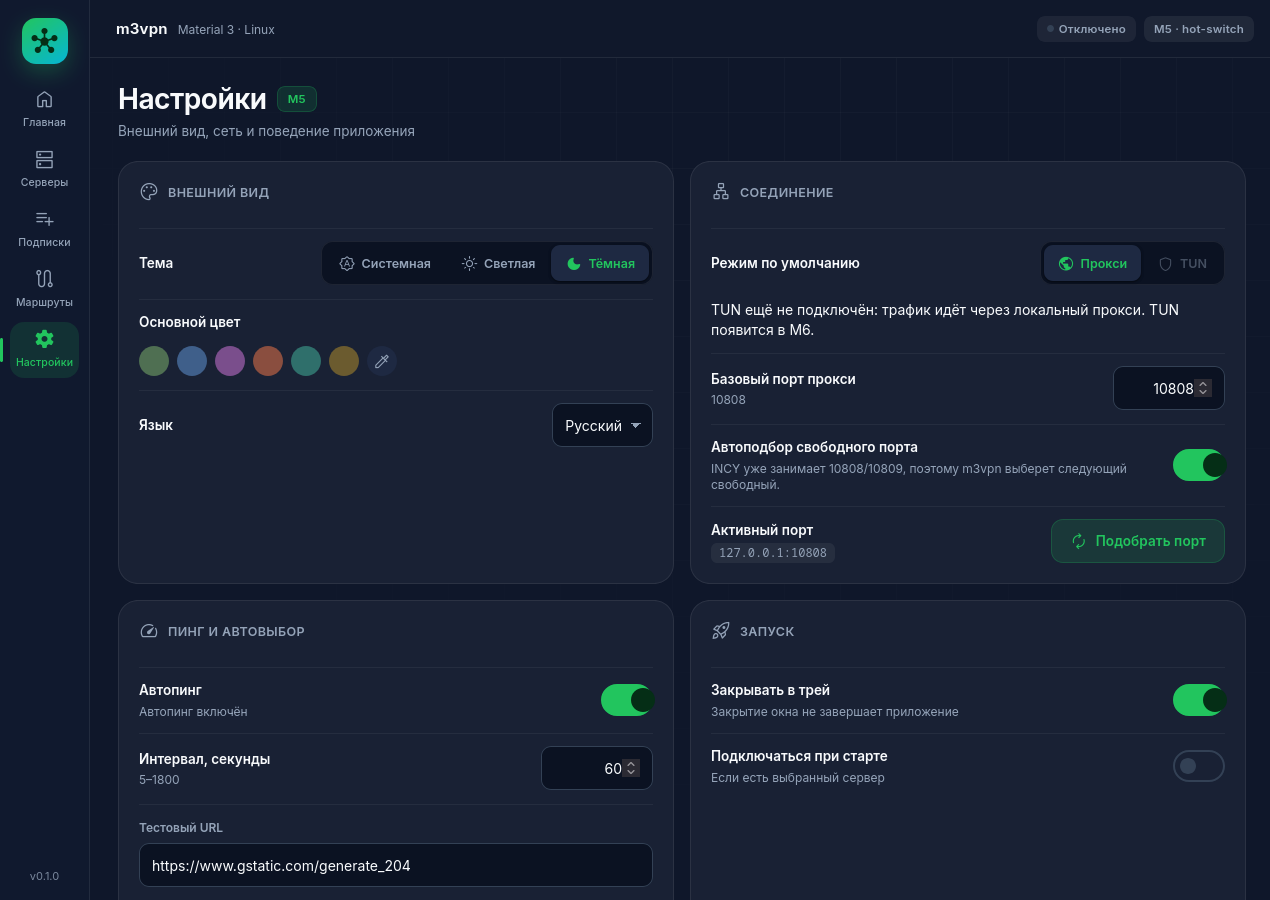
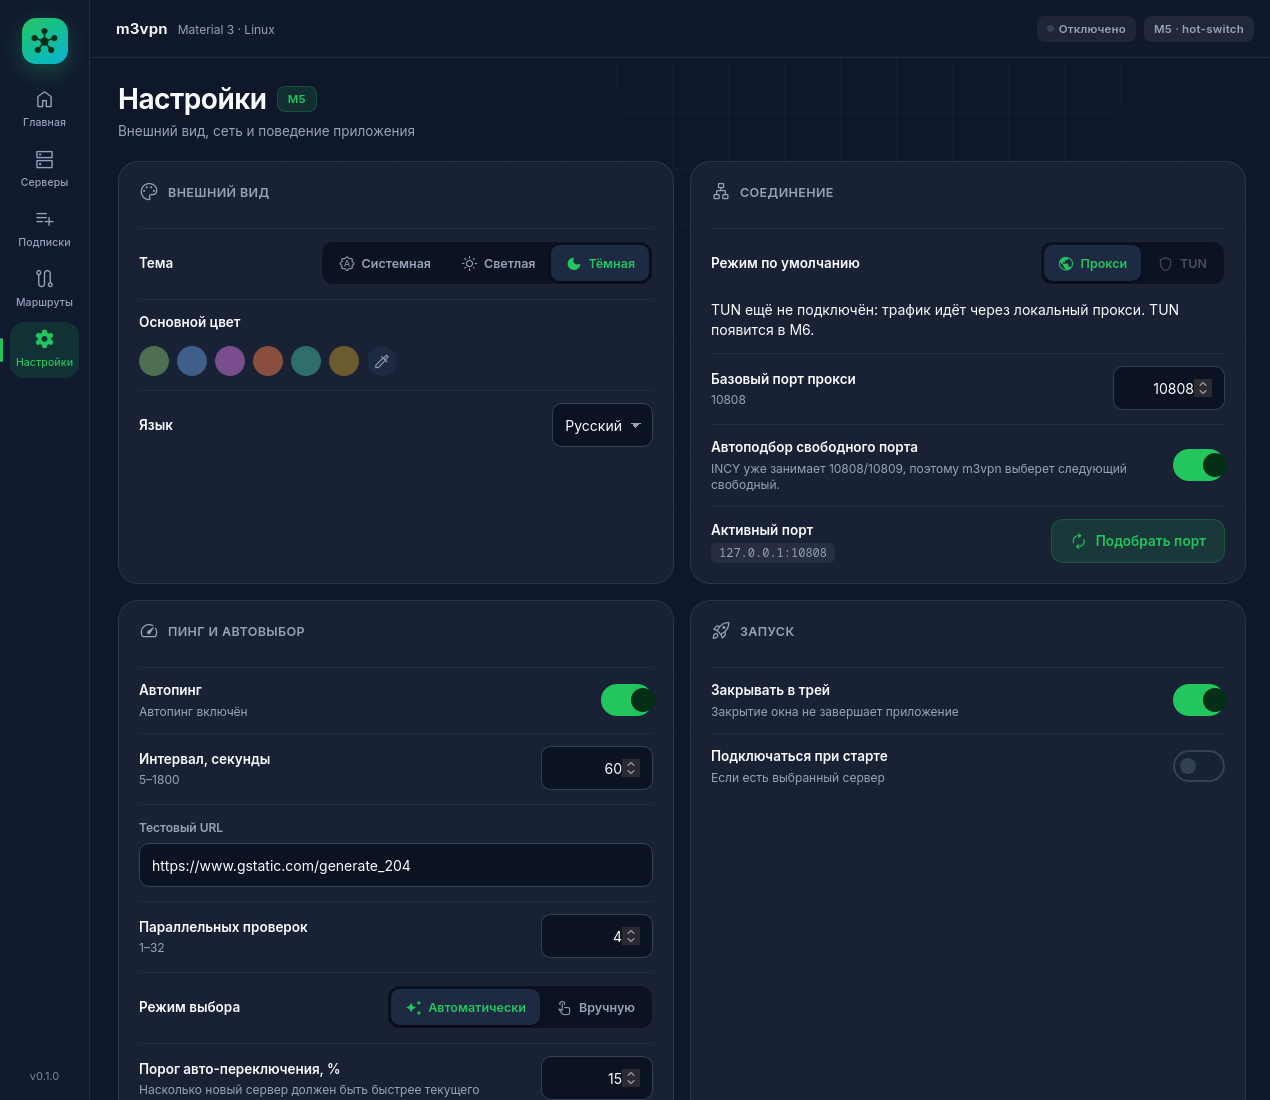
M5: auto-switch to fastest while connected, tune defaults, fail-open test

diff --git a/apps/desktop/src/store/useAppStore.ts b/apps/desktop/src/store/useAppStore.ts
@@ -28,6 +28,8 @@ interface AppStore {
   importing: boolean;
   probing: boolean;
   refreshingId: string | null;
+  autoCandidateId: string | null;
+  autoCandidateWins: number;
   toast: string | null;
   lastError: string | null;
   reportedStatusError: string | null;
@@ -65,6 +67,8 @@ export const useAppStore = create<AppStore>((set, get) => ({
   importing: false,
   probing: false,
   refreshingId: null,
+  autoCandidateId: null,
+  autoCandidateWins: 0,
   toast: null,
   lastError: null,
   reportedStatusError: null,
@@ -127,7 +131,10 @@ export const useAppStore = create<AppStore>((set, get) => ({
   },
 
   set: async (key, value) => {
-    set((state) => ({ settings: { ...state.settings, [key]: value } }));
+    set((state) => ({
+      settings: { ...state.settings, [key]: value },
+      ...(key === "select.mode" ? { autoCandidateId: null, autoCandidateWins: 0 } : {}),
+    }));
     try {
       await api.setSetting(key, value);
     } catch (error) {
@@ -136,7 +143,12 @@ export const useAppStore = create<AppStore>((set, get) => ({
     }
   },
 
-  selectServer: (serverId) => set({ selectedServerId: serverId }),
+  selectServer: (serverId) =>
+    set({
+      selectedServerId: serverId,
+      autoCandidateId: null,
+      autoCandidateWins: 0,
+    }),
 
   connect: async (serverId) => {
     const state = get();
@@ -154,8 +166,15 @@ export const useAppStore = create<AppStore>((set, get) => ({
         selectedServerId: target,
         reportedStatusError: null,
         rtt: null,
+        autoCandidateId: null,
+        autoCandidateWins: 0,
       });
       state.notify(`${translate(state.settings["ui.language"] as Lang, "home.on")}: ${status.serverName ?? ""}`);
+      // Give the tunnel a moment, then let auto mode check whether a clearly
+      // faster server is available instead of waiting a whole ping interval.
+      window.setTimeout(() => {
+        void get().probeAll(false, true);
+      }, 5000);
     } catch (error) {
       set({ busy: false, lastError: String(error) });
       void get().refreshData();
@@ -166,7 +185,14 @@ export const useAppStore = create<AppStore>((set, get) => ({
     set({ busy: true });
     try {
       const status = await api.disconnectCore();
-      set({ status, busy: false, reportedStatusError: null, rtt: null });
+      set({
+        status,
+        busy: false,
+        reportedStatusError: null,
+        rtt: null,
+        autoCandidateId: null,
+        autoCandidateWins: 0,
+      });
     } catch (error) {
       set({ busy: false, lastError: String(error) });
     }
@@ -258,20 +284,65 @@ export const useAppStore = create<AppStore>((set, get) => ({
       const best = results
         .filter((result) => result.ok && result.latencyMs !== null)
         .sort((left, right) => (left.latencyMs ?? 0) - (right.latencyMs ?? 0))[0];
-      const autoSelect = get().settings["select.mode"] !== "manual";
-      const current = get().servers.find((server) => server.id === get().selectedServerId);
+      const state = get();
+      const lang = state.settings["ui.language"] as Lang;
+      const autoMode = state.settings["select.mode"] !== "manual";
+      const winsRequired = Math.max(
+        1,
+        Number(state.settings["select.wins_required"] ?? "2") || 2,
+      );
+      const toleranceMs = Math.max(0, Number(state.settings["select.tolerance_ms"] ?? "50") || 0);
+      const toleranceRatio = Math.min(
+        1,
+        Math.max(0, Number(state.settings["select.tolerance_ratio"] ?? "0.3") || 0),
+      );
+      const current = state.servers.find(
+        (server) =>
+          server.id ===
+          (state.status.running ? state.status.serverId : state.selectedServerId),
+      );
       const currentLatency = current?.latencyMs ?? Number.POSITIVE_INFINITY;
       const bestLatency = best?.latencyMs ?? Number.POSITIVE_INFINITY;
-      const clearlyBetter = !current || bestLatency < currentLatency * 0.85;
-      if (best && (connectFastest || (autoSelect && !get().status.running && clearlyBetter))) {
-        get().selectServer(best.serverId);
-        if (connectFastest) await get().connect(best.serverId);
+      const clearlyBetter =
+        !current ||
+        bestLatency + toleranceMs < currentLatency ||
+        bestLatency < currentLatency * (1 - toleranceRatio);
+
+      if (connectFastest) {
+        if (!best) {
+          get().notify(translate(lang, "servers.noCandidates"));
+        } else if (state.status.running && state.status.serverId === best.serverId) {
+          get().selectServer(best.serverId);
+          get().notify(translate(lang, "servers.alreadyFastest"));
+        } else {
+          get().selectServer(best.serverId);
+          await get().connect(best.serverId);
+        }
+      } else if (autoMode && best) {
+        if (!state.status.running) {
+          get().selectServer(best.serverId);
+        } else if (best.serverId !== current?.id && clearlyBetter) {
+          const wins = state.autoCandidateId === best.serverId ? state.autoCandidateWins + 1 : 1;
+          if (wins >= winsRequired) {
+            set({ autoCandidateId: null, autoCandidateWins: 0 });
+            await get().connect(best.serverId);
+            const bestServer = state.servers.find((server) => server.id === best.serverId);
+            get().notify(
+              `${translate(lang, "servers.autoSwitched")}: ${bestServer?.name ?? best.serverId}`,
+            );
+          } else {
+            set({ autoCandidateId: best.serverId, autoCandidateWins: wins });
+          }
+        } else {
+          set({ autoCandidateId: null, autoCandidateWins: 0 });
+        }
+      } else {
+        set({ autoCandidateId: null, autoCandidateWins: 0 });
       }
+
       if (!silent) {
         const ok = results.filter((result) => result.ok).length;
-        get().notify(
-          `${translate(get().settings["ui.language"] as Lang, "servers.probe")}: ${ok}/${results.length}`,
-        );
+        get().notify(`${translate(lang, "servers.probe")}: ${ok}/${results.length}`);
       }
     } catch (error) {
       set({ lastError: String(error) });

diff --git a/apps/desktop/src/i18n.ts b/apps/desktop/src/i18n.ts
@@ -158,6 +158,9 @@ const ru: Dictionary = {
   "settings.xrayVersion": "Версия Xray",
   "settings.assetsDir": "Geo-ассеты",
   "servers.probe": "Проверить пинг",
+  "servers.autoSwitched": "Авто: переключено",
+  "servers.noCandidates": "Нет доступных серверов",
+  "servers.alreadyFastest": "Уже подключено к самому быстрому",
   "servers.probing": "Проверяю…",
   "servers.fastest": "В самый быстрый",
   "servers.sortGroup": "Группы",
@@ -165,7 +168,11 @@ const ru: Dictionary = {
   "servers.sortName": "По имени",
   "servers.tcpPing": "TCP-пинг по адресам серверов",
   "settings.pingHint": "TCP-пинг измеряет задержку до адреса сервера. Реальная задержка туннеля видна после подключения.",
-  "settings.selectHint": "Авто выбирает лучший сервер после проверки пинга. Ручной режим оставляет ваш выбор.",
+  "settings.selectHint": "Авто выбирает лучший сервер после проверки пинга и переключается на него через hot-switch. Ручной режим оставляет ваш выбор.",
+  "settings.autoTolerance": "Порог авто-переключения, %",
+  "settings.autoToleranceHint": "Насколько новый сервер должен быть быстрее текущего",
+  "settings.autoWins": "Замеров подряд",
+  "settings.autoWinsHint": "Сколько проверок новый сервер должен быть лучше",
   "subs.refresh": "Обновить подписку",
   "subs.deleted": "Подписка удалена",
   "common.soon": "Появится позже",
@@ -330,6 +337,9 @@ const en: Dictionary = {
   "settings.xrayVersion": "Xray version",
   "settings.assetsDir": "Geo assets",
   "servers.probe": "Probe latency",
+  "servers.autoSwitched": "Auto: switched",
+  "servers.noCandidates": "No reachable servers",
+  "servers.alreadyFastest": "Already on the fastest server",
   "servers.probing": "Probing…",
   "servers.fastest": "Connect fastest",
   "servers.sortGroup": "Groups",
@@ -337,7 +347,11 @@ const en: Dictionary = {
   "servers.sortName": "By name",
   "servers.tcpPing": "TCP ping to server addresses",
   "settings.pingHint": "TCP ping measures the server address. Tunnel RTT is shown after connecting.",
-  "settings.selectHint": "Auto picks the best server after a latency probe. Manual keeps your selection.",
+  "settings.selectHint": "Auto picks the best server after a latency probe and hot-switches to it. Manual keeps your selection.",
+  "settings.autoTolerance": "Auto-switch threshold, %",
+  "settings.autoToleranceHint": "How much faster the new server must be",
+  "settings.autoWins": "Consecutive probes",
+  "settings.autoWinsHint": "How many probes the new server must win",
   "subs.refresh": "Refresh subscription",
   "subs.deleted": "Subscription deleted",
   "common.soon": "Coming later",

diff --git a/apps/desktop/src/features/settings/SettingsPage.tsx b/apps/desktop/src/features/settings/SettingsPage.tsx
@@ -30,6 +30,10 @@ export function SettingsPage() {
   const activePort = settings["proxy.active_port"] ?? String(info?.proxyPort ?? 10808);
   const pingEnabled = settings["ping.enabled"] !== "false";
   const selectMode = settings["select.mode"] === "manual" ? "manual" : "auto";
+  const autoTolerance = Math.round(
+    Number(settings["select.tolerance_ratio"] ?? "0.3") * 100,
+  );
+  const autoWins = Number(settings["select.wins_required"] ?? "2");
 
   const saveNumber = (key: string, value: string, min: number, max: number) => {
     const parsed = Number(value);
@@ -251,6 +255,45 @@ export function SettingsPage() {
                 { value: "manual", label: t("settings.selectManual"), icon: "touch_app" },
               ]}
               onChange={(value) => void set("select.mode", value)}
+            />
+          </div>
+          <div className="settings-row">
+            <div className="settings-row__text">
+              <strong>{t("settings.autoTolerance")}</strong>
+              <span>{t("settings.autoToleranceHint")}</span>
+            </div>
+            <input
+              className="m3-input m3-input--short"
+              type="number"
+              aria-label={t("settings.autoTolerance")}
+              min={1}
+              max={80}
+              value={autoTolerance}
+              onChange={(event) => {
+                const percent = Number(event.target.value);
+                if (!Number.isFinite(percent)) return;
+                const clamped = Math.max(1, Math.min(80, Math.round(percent)));
+                void set("select.tolerance_ratio", (clamped / 100).toFixed(2));
+              }}
+            />
+          </div>
+          <div className="settings-row">
+            <div className="settings-row__text">
+              <strong>{t("settings.autoWins")}</strong>
+              <span>{t("settings.autoWinsHint")}</span>
+            </div>
+            <input
+              className="m3-input m3-input--short"
+              type="number"
+              aria-label={t("settings.autoWins")}
+              min={1}
+              max={5}
+              value={autoWins}
+              onChange={(event) => {
+                const wins = Number(event.target.value);
+                if (!Number.isFinite(wins)) return;
+                void set("select.wins_required", String(Math.max(1, Math.min(5, Math.round(wins)))));
+              }}
             />
           </div>
           <p className="hint">{t("settings.selectHint")}</p>

diff --git a/apps/desktop/src/lib/tauri.ts b/apps/desktop/src/lib/tauri.ts
@@ -88,8 +88,8 @@ export const DEFAULT_SETTINGS: Settings = {
   "ping.samples": "3",
   "select.mode": "auto",
   "select.tolerance_ms": "50",
-  "select.tolerance_ratio": "0.3",
-  "select.wins_required": "2",
+  "select.tolerance_ratio": "0.15",
+  "select.wins_required": "1",
   "select.failures_to_failover": "2",
   "tun.kill_switch": "false",
   "tun.strict_route": "false",

diff --git a/apps/desktop/src-tauri/src/core/supervisor.rs b/apps/desktop/src-tauri/src/core/supervisor.rs
@@ -796,6 +796,48 @@ mod tests {
 
     #[test]
     #[ignore = "requires sidecars and curl"]
+    fn failed_backend_falls_back_to_direct() {
+        let paths = test_paths("fail-open-test");
+        let sidecars = Sidecars::discover().expect("sidecars");
+        let origin_port = origin_server();
+        let socks_port = crate::port::find_free_port(25808).expect("free socks port");
+        let state = Mutex::new(CoreState::new(socks_port));
+
+        let connected = connect_xray(&state, &paths, &sidecars, "a", "Server A", direct_config())
+            .expect("connect");
+        let pid = connected.pid.expect("backend pid");
+
+        unsafe {
+            libc::kill(pid as i32, libc::SIGKILL);
+        }
+        std::thread::sleep(Duration::from_millis(300));
+
+        let failed = status(&state, &paths);
+        assert!(!failed.running);
+        assert!(failed.error.is_some());
+
+        let output = std::process::Command::new("curl")
+            .arg("-fsS")
+            .arg("--max-time")
+            .arg("10")
+            .arg("--socks5-hostname")
+            .arg(format!("127.0.0.1:{socks_port}"))
+            .arg(format!("http://127.0.0.1:{origin_port}/"))
+            .output()
+            .expect("run curl");
+        assert!(
+            output.status.success(),
+            "front proxy did not fail open: {}",
+            String::from_utf8_lossy(&output.stderr)
+        );
+        assert_eq!(String::from_utf8_lossy(&output.stdout), "ok");
+
+        shutdown(&state, &paths);
+        let _ = std::fs::remove_dir_all(&paths.data_dir);
+    }
+
+    #[test]
+    #[ignore = "requires sidecars and curl"]
     fn hot_switch_keeps_an_active_download() {
         let paths = test_paths("hot-switch-test");
         let sidecars = Sidecars::discover().expect("sidecars");

diff --git a/apps/desktop/src-tauri/src/store.rs b/apps/desktop/src-tauri/src/store.rs
@@ -17,8 +17,8 @@ const DEFAULTS: &[(&str, &str)] = &[
     ("ping.samples", "3"),
     ("select.mode", "auto"),
     ("select.tolerance_ms", "50"),
-    ("select.tolerance_ratio", "0.3"),
-    ("select.wins_required", "2"),
+    ("select.tolerance_ratio", "0.15"),
+    ("select.wins_required", "1"),
     ("select.failures_to_failover", "2"),
     ("tun.kill_switch", "false"),
     ("tun.strict_route", "false"),
@@ -161,6 +161,19 @@ fn seed(conn: &Connection) -> Result<()> {
         set(conn, "ui.theme", "dark")?;
         set(conn, "ui.seed_color", "#22C55E")?;
         set(conn, "ui.theme_migrated", "1")?;
+    }
+
+    // The first auto-switch tuning was too conservative for real TCP latencies
+    // (30% and two probes). One 15% win is stable with the new hot-switch and
+    // makes the feature actually visible.
+    if get(conn, "select.tuned_v2")?.is_none() {
+        if get(conn, "select.tolerance_ratio")?.as_deref() == Some("0.3") {
+            set(conn, "select.tolerance_ratio", "0.15")?;
+        }
+        if get(conn, "select.wins_required")?.as_deref() == Some("2") {
+            set(conn, "select.wins_required", "1")?;
+        }
+        set(conn, "select.tuned_v2", "1")?;
     }
 
     Ok(())

diff --git a/docs/m5-report.md b/docs/m5-report.md
@@ -53,6 +53,24 @@ front sing-box  :10808 (mixed) / :10809 (http)
 - Если VPN/бэкенд упал, приложение не оставляет пользователя без интернета.
 - Та же схема позже примет TUN inbound без переделки маршрутизации.
 
+## Автопереключение на быстрейший
+
+Раньше авто-выбор срабатывал только когда соединение было выключено:
+`autoSelect && !status.running`. Поэтому при активном VPN сервер не менялся.
+
+Теперь в режиме **Авто**:
+
+- пинг раз в `ping.interval_sec`;
+- через 5 секунд после подключения делается дополнительный замер;
+- если новый сервер лучше текущего на `tolerance` (по умолчанию 15 % или 50 мс)
+  `wins_required` замеров подряд, выполняется **hot-switch** через front-proxy;
+- уже открытые соединения не рвутся;
+- если сервер уже самый быстрый, переподключения нет.
+
+Старые консервативные значения (30 % и 2 замера) мигрируются на 15 % и 1 замер,
+чтобы функция была заметна на реальных задержках. Порог и число замеров
+редактируются в «Настройки → Пинг и автовыбор».
+
 ## Исправление: «Xray завершился (exit status: 0)»
 
 После перехода на async-команды `connect_server` выполнялся в
@@ -74,12 +92,13 @@ front sing-box  :10808 (mixed) / :10809 (http)
 | Проверка | Результат |
 |---|---|
 | Backend переживает короткоживущий поток | OK |
+| Fail-open при убийстве backend | OK |
 | Hot-switch под активной загрузкой | 4 МБ через `curl --limit-rate 300k`, переключение A→B, загрузка завершилась |
 | Реальная подписка через front | 43 сервера, подключение и `curl` — OK |
 | AmneziaWG через front + sing-box | OK |
 | RTT через front SOCKS | OK |
 | `cargo clippy -D warnings` | OK |
-| Rust tests | 10/10 + 5 ignored |
+| Rust tests | 10/10 + 6 ignored |
 | `npm run typecheck` / `build` | OK |
 | `tauri build --debug` | OK |
 | Runtime smoke | OK |

diff --git a/README.md b/README.md
@@ -14,9 +14,9 @@
   подключение к самому быстрому. См. [`docs/m3-report.md`](docs/m3-report.md).
 - **M4 — готово.** Исправлены зависания, добавлены AmneziaWG через sing-box,
   реальный RTT и второй core. См. [`docs/m4-report.md`](docs/m4-report.md).
-- **M5 — готово.** Front-proxy с hot-switch: смена сервера не рвёт активные
-  соединения, при падении бэкенда трафик уходит в direct. См.
-  [`docs/m5-report.md`](docs/m5-report.md).
+- **M5 — готово.** Front-proxy с hot-switch и авто-переключением на быстрейший:
+  смена сервера не рвёт активные соединения, при падении бэкенда трафик уходит
+  в direct. См. [`docs/m5-report.md`](docs/m5-report.md).
 
 ## Структура
 
